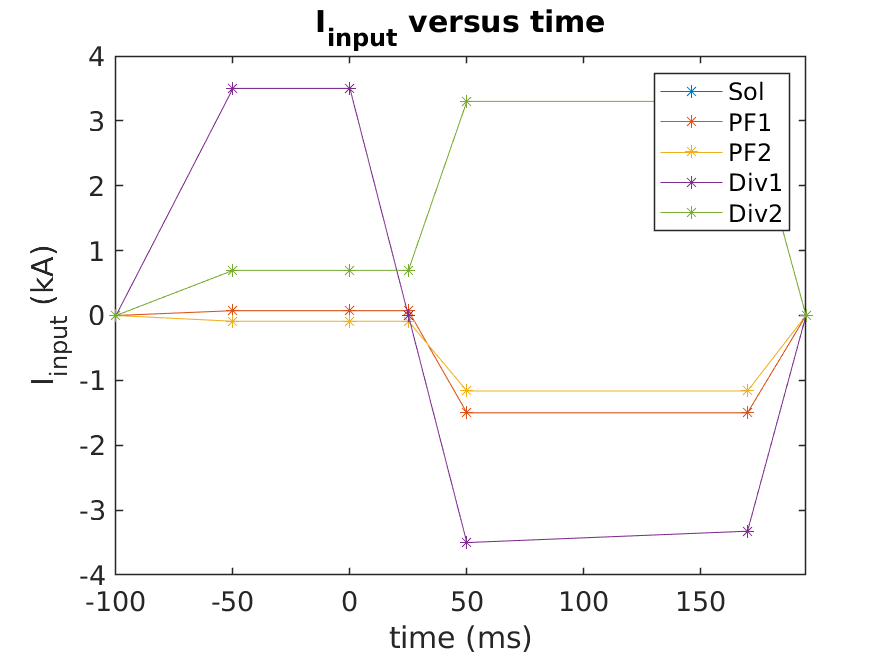
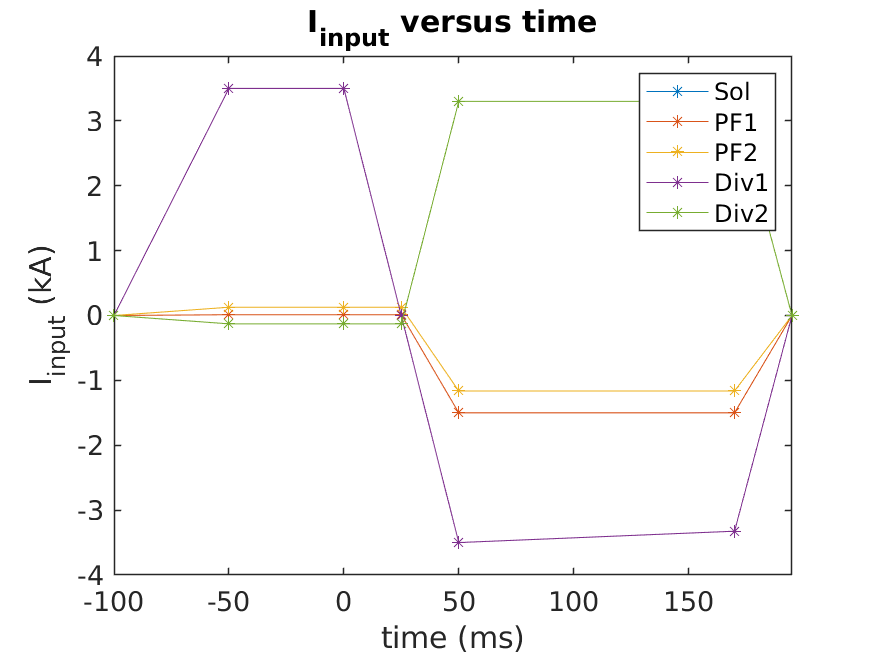
phase2 x00000003
*Corrected the calc of the currents to obtain null. An increase of an order of magnitude in L empirical have been achieved :)
*See the change in the input currents in the breakdown phase with respect to the worng way of computing the null currents

diff --git a/Phase2_Spitzer_H_Lall.m b/Phase2_Spitzer_H_Lall.m
@@ -606,12 +606,30 @@ rzip_config = fiesta_rzip_configuration( 'RZIP', config, vessel, {sensor_btheta}
 
 %%%%%%  Optimised null  currents%%%%%%%%%%%%
 %Extract scaling factors for null-field coil currents - Copied from ST25D Simulation
-C_temp = C(end-get(sensor_btheta,'n')+1:end,1:nPF);
-C1 = C_temp(:,1);
-D1 = C_temp(:,2:end);
-%Compute PF null coil currents (excluding Solenoid) 
-I_PF_null = -pinv(D1) * (C1*ISol_Waveform(2));	%(PF1,PF2,Div1,Div2)
+C_temp = C(end-get(sensor_btheta,'n')+1:end,1:nPF);             %This ic Cn(:,1:nPF) 
+                                                  %Cn is the part of the matrix C related to the sensors
+                                                  %(see response)
+C1 = C_temp(:,iSol);                               %Elements of C_temp(Cn) related to Sol coil
 
+D1_PF1 = C_temp(:,iPF1);                            %Elements of C_temp(Cn) to PF1 coil
+D1_PF2 = C_temp(:,iPF2);                            %Elements of C_temp(Cn) to PF2 coil
+D1_Div1 = C_temp(:,iDiv1);                          %Elements of C_temp(Cn) to Div1 coil
+D1_Div2 = C_temp(:,iDiv2);                          %Elements of C_temp(Cn) to Div2 coil
+
+    %1) Compute all the coil currents (standar)
+        %D1=C_temp(:,iPF1:end);          %Elements of C_temp(Cn) related to the PF and Div coils
+        %I_PF_null = -pinv(D1) * (C1*ISol_Waveform(2));	%(PF1,PF2,Div1,Div2)
+
+    %2)Div1 in serie with Sol! :
+        %Since we want Div1 in serie with Sol, it should be reomved from the matrix
+        %to do the calc:
+        D1=[D1_PF1 D1_PF2 D1_Div2];                     %This is for Div1 in series with Sol, so 
+                                                                    %must not include it in the calculation for the currents                                                                                                                 
+        I_PF_null = -pinv(D1) * (C1*ISol_Waveform(2)+D1_Div1*ISol_Waveform(2));	%Div1 in serie with Sol
+        I_PF_null=[I_PF_null(1); I_PF_null(2); ISol_Waveform(2); I_PF_null(3)]; %To not have problems
+        
+        %redefining the coil currents
+%%%%%%
 %Update CoilWaveforms array with null-field values
 for i = 1:nPF;
 	for j = 1:nTime;
@@ -784,99 +802,96 @@ I_Passive_VV=sum(I_Passive,2);
     icoil_eddy = fiesta_icoil( coilsetVV, coil_currents_eddys );
     
     %%%1) EFIT
-%     [efit_configVV, signalsVV, weightsVV, indexVV]=efit_shape_controller(configVV, {'PF1','PF2'}, [0.44, 0, 0.44/1.85 1.8 0.2])
-%     % The numbers you give are [Rgeo, Zgeo, a, kappa, delta], Rgeo,Zgeo,a are
-%     % mandatory.
-%     %I use the values of the standar shape, to get a similar equil
-% 
-%     equil_eddy=fiesta_equilibrium('Target+eddys', configVV, Irod, jprofile, control,efit_configVV, icoil_eddy, signalsVV, weightsVV) %%EFIT!!!
-%     %It does the case in line 96!! The equil calc is in lin 124
-% 
-%     %Now we have to extract the new currents from the equil, provided that EFIT
-%     %changed some of them to satisfy the conditions requested:
-%     icoil_eddy=get(equil_eddy,'icoil');
-%     current_post_EFIT=get(icoil_eddy,'currents');
-%     coil_currents_VV(iPF1) =current_post_EFIT(iPF1);
-%     coil_currents_VV(iPF2) =current_post_EFIT(iPF2);
-%     coil_currents_VV(iDiv1) =current_post_EFIT(iDiv1);
-%     coil_currents_VV(iDiv2) =current_post_EFIT(iDiv2);
-% %No need of redefine the Sol current of course. Actually, Div 1 and 2 are
-% %not neccessary, since I am not changing them
-% 
-% 
-% %     %%2) NO EFIT
-% %             equil = fiesta_equilibrium( 'STV2C2', config, Irod, jprofile, control, [],icoil );
-% 
-%                 %This is not an option, since it does not
-%                 %convnerge with the values without eddys!!!!!!!!!!
-%                              
-%   %Plot of the equil with the eddys!
-%         %section_figure=section(equil); %THIS IS A PLOT
-%         figure;
-%         plot(equil_eddy)
-%         parametersshow(equil_eddy) %this plots the parameters in the equil
-%         hold on
-%         plot(vessel)
-%         plot(coilset)
-%         title('Target equilibria eddys included')
-% 
-% 
-% %%% Make virtual sensors where we want breakdown  %%%%%%%
-% %This is to null the poloidal field(BP), to increase the connective length, and
-% %allow the plasma breakdown. 
-% 
-% BP_virt_R = linspace(param_equil.r0_geom-a_eff,param_equil.r0_geom+a_eff,10);       %R values, 100 values
-% BP_virt_Z = linspace(ZGeo-a_eff,ZGeo+a_eff,10);                     %Z values, 100 values
-% 
-% [BP_virt_R,BP_virt_Z] = meshgrid(BP_virt_R,BP_virt_Z);
-% BP_virt_R = BP_virt_R(:)';
-% BP_virt_Z = BP_virt_Z(:)';
-% 
-% BP_virt_theta = zeros(1,length(BP_virt_R));
-% nSensors = length(BP_virt_theta); %100
-% 
-% BP_virt_names = {};
-% for iSensor=1:nSensors
-%     BP_virt_names{iSensor} = ['Radial Bp Virtual Sensor #' num2str(iSensor) ];
-% end
-% 
-% BP_virt_R = [BP_virt_R  BP_virt_R];
-% BP_virt_Z = [BP_virt_Z  BP_virt_Z];         %Both size 1*200. It is replicated, so element 101=element 1 
-% 
-% BP_virt_theta = [BP_virt_theta  BP_virt_theta+pi/2];    %size 1*200. The first 100 have 0, and the second has pi/2 
-% 
-% for iSensor=nSensors+1:2*nSensors
-%     BP_virt_names{iSensor} = ['Vertical Bp Virtual Sensor #' num2str(iSensor) ];
-% end
-% 
-% sensor_btheta = fiesta_sensor_btheta( 'sensor', BP_virt_R, BP_virt_Z,BP_virt_theta, BP_virt_names );
-% 
-% %(r,z) of the sensors
-% r_sensors=get(sensor_btheta,'r'); %size 1*200
-% z_sensors=get(sensor_btheta,'z'); %size 1*200
-% [R_sensors,Z_sensors]=meshgrid(r_sensors,z_sensors); %size 200*200
-% 
-% %Plot of the sensors
-%     figure; hold on; axis equal;
-%     plot(coilset);
-%     contour( get(equil_eddy,'Psi'),60,'Color','Black', 'LineWidth',0.5 );
-%     contour( get(equil_eddy,'Psi'),get(equil_eddy,'Psi_boundary')*[1 1],'Color','Black', 'LineWidth',1.5 );
-%     plot(vessel);
-%     fileName = 'ST_target_equilibrium';
-%     legend(gca,'hide');
-%     plot(sensor_btheta);
-%     %set(gca,'XLim',[0 1]);
-%     %set(gca,'YLim',[-1.5 1.5]);
-%     xlabel(gca,'R (m)');
-%     ylabel(gca,'Z (m)');
-%     title('Sensors to null Bpol with eddys');
-%     % save_to_pdf( gcf, fileName );
-%     %%%OPtionf for tfg
-%     set(gca, 'FontSize', 13, 'LineWidth', 0.75); %<- Set properties TFG
-%     axis([0,1.1,-1.1,1.1]) 
+    [efit_configVV, signalsVV, weightsVV, indexVV]=efit_shape_controller(configVV, {'PF1','PF2'}, [0.44, 0, 0.44/1.85 1.8 0.2])
+    % The numbers you give are [Rgeo, Zgeo, a, kappa, delta], Rgeo,Zgeo,a are
+    % mandatory.
+    %I use the values of the standar shape, to get a similar equil
+
+    equil_eddy=fiesta_equilibrium('Target+eddys', configVV, Irod, jprofile, control,efit_configVV, icoil_eddy, signalsVV, weightsVV) %%EFIT!!!
+    %It does the case in line 96!! The equil calc is in lin 124
+
+    %Now we have to extract the new currents from the equil, provided that EFIT
+    %changed some of them to satisfy the conditions requested:
+    icoil_eddy=get(equil_eddy,'icoil');
+    current_post_EFIT=get(icoil_eddy,'currents');
+    coil_currents_eddys(iPF1) =current_post_EFIT(iPF1);
+    coil_currents_eddys(iPF2) =current_post_EFIT(iPF2);
+    coil_currents_eddys(iDiv1) =current_post_EFIT(iDiv1);
+    coil_currents_eddys(iDiv2) =current_post_EFIT(iDiv2);
+%No need of redefine the Sol current of course. Actually, Div 1 and 2 are
+%not neccessary, since I am not changing them
 
 
-%%%HAVE TO CHANGE DIV2, THERE IS NO EQUIL, EVEN WITH EFIT!!
+%     %%2) NO EFIT
+%             equil = fiesta_equilibrium( 'STV2C2', config, Irod, jprofile, control, [],icoil );
+
+                %This is not an option, since it does not
+                %convnerge with the values without eddys!!!!!!!!!!
+                             
+  %Plot of the equil with the eddys!
+        %section_figure=section(equil); %THIS IS A PLOT
+        figure;
+        plot(equil_eddy)
+        parametersshow(equil_eddy) %this plots the parameters in the equil
+        hold on
+        plot(vessel)
+        plot(coilset)
+        title('Target equilibria eddys included')
+
+
+%%% Make virtual sensors where we want breakdown  %%%%%%%
+%This is to null the poloidal field(BP), to increase the connective length, and
+%allow the plasma breakdown. 
+
+BP_virt_R = linspace(param_equil.r0_geom-a_eff,param_equil.r0_geom+a_eff,10);       %R values, 100 values
+BP_virt_Z = linspace(ZGeo-a_eff,ZGeo+a_eff,10);                     %Z values, 100 values
+
+[BP_virt_R,BP_virt_Z] = meshgrid(BP_virt_R,BP_virt_Z);
+BP_virt_R = BP_virt_R(:)';
+BP_virt_Z = BP_virt_Z(:)';
+
+BP_virt_theta = zeros(1,length(BP_virt_R));
+nSensors = length(BP_virt_theta); %100
+
+BP_virt_names = {};
+for iSensor=1:nSensors
+    BP_virt_names{iSensor} = ['Radial Bp Virtual Sensor #' num2str(iSensor) ];
+end
+
+BP_virt_R = [BP_virt_R  BP_virt_R];
+BP_virt_Z = [BP_virt_Z  BP_virt_Z];         %Both size 1*200. It is replicated, so element 101=element 1 
+
+BP_virt_theta = [BP_virt_theta  BP_virt_theta+pi/2];    %size 1*200. The first 100 have 0, and the second has pi/2 
+
+for iSensor=nSensors+1:2*nSensors
+    BP_virt_names{iSensor} = ['Vertical Bp Virtual Sensor #' num2str(iSensor) ];
+end
+
+sensor_btheta = fiesta_sensor_btheta( 'sensor', BP_virt_R, BP_virt_Z,BP_virt_theta, BP_virt_names );
+
+%(r,z) of the sensors
+r_sensors=get(sensor_btheta,'r'); %size 1*200
+z_sensors=get(sensor_btheta,'z'); %size 1*200
+[R_sensors,Z_sensors]=meshgrid(r_sensors,z_sensors); %size 200*200
+
+%Plot of the sensors
+    figure; hold on; axis equal;
+    plot(coilset);
+    contour( get(equil_eddy,'Psi'),60,'Color','Black', 'LineWidth',0.5 );
+    contour( get(equil_eddy,'Psi'),get(equil_eddy,'Psi_boundary')*[1 1],'Color','Black', 'LineWidth',1.5 );
+    plot(vessel);
+    fileName = 'ST_target_equilibrium';
+    legend(gca,'hide');
+    plot(sensor_btheta);
+    %set(gca,'XLim',[0 1]);
+    %set(gca,'YLim',[-1.5 1.5]);
+    xlabel(gca,'R (m)');
+    ylabel(gca,'Z (m)');
+    title('Sensors to null Bpol with eddys');
+    % save_to_pdf( gcf, fileName );
+    %%%OPtionf for tfg
+    set(gca, 'FontSize', 13, 'LineWidth', 0.75); %<- Set properties TFG
+    axis([0,1.1,-1.1,1.1]) 
 
 %%%%END OF FIESTA EQ WITH EDDYS@@@@@@@@@@@@@@@@@@@@@@@@@@
 
@@ -887,9 +902,16 @@ I_Passive_VV=sum(I_Passive,2);
 % @@@@@@@@@@@@@@@@@@@@@@@@@@@@@@@@@@@@@
 % It has the virtual sensors
 
-% rzip_config = fiesta_rzip_configuration( 'RZIP with eddys', config, vessel, {sensor_btheta} );
+%Redefinition of the icoil in the equil with eddys to not have the vessel
+
+% equil_eddy=set(equil_eddy,configVV,'icoil',fiesta_icoil( coilset, coil_currents_eddys(iSol:iDiv2)));
+% 
+% %%%%DO NOT WORK :)
+% 
+% %%%%
+% rzip_configVV = fiesta_rzip_configuration( 'RZIP with eddys', configVV, vessel, {sensor_btheta} );
 %     %have to use the confing without the vessel, which makes sense
-% [A, B, C, D, curlyM, curlyR, gamma, plasma_parameters, index, label_index, state] = response(rzip_config, equil, 'rp',plasma_resistance);
+% [A, B, C, D, curlyM, curlyR, gamma, plasma_parameters, index, label_index, state] = response(rzip_configVV, equil_eddy, 'rp',plasma_resistance);
 % %%%%%%%%%%%%%%%%%%%%%%%%%%%%%%%%%%%%%%%%%%%%%%%%%%%%%%%%%%%%%%%%%%%%%%%%%%%
 % 
 % %%%%%%  Optimised null  %%%%%%%%%%%%
@@ -899,7 +921,7 @@ I_Passive_VV=sum(I_Passive,2);
 % D1 = C_temp(:,2:end);
 
 %%%%%THIS DO NOT WORK, SINCE THE COILSET ALSO CONTAINS THE VESSEL, SO
-%%%%%RESPONDE DO NOT WORK PROPERLY!!!!!!!!!!!!!!!!!!!!!!ç
+%%%%%RESPONDE DO NOT WORK PROPERLY (eig(A) contains NaN or Inf!!!!!!!!!!!!!!!!!!!!!!ç
 
 
 %%
@@ -1324,7 +1346,7 @@ Bpol_sensor=sqrt(Br_sensor.^2+Bz_sensor.^2);
      [min(z_sensors) max(z_sensors) max(z_sensors) min(z_sensors) min(z_sensors)],'r.--')
      xlabel('R (m)')
     ylabel('Z (m)')
-    title('log_{10}(Bpol) mikama')
+    title('log_{10}(Bpol) phase2')
     subplot(1,2,2)
     surf(R_in,Z_in,Bphi_ins_vessel,'EdgeColor','none');
     shading('interp') %this is to make the transition between values continuous,
@@ -1337,7 +1359,7 @@ Bpol_sensor=sqrt(Br_sensor.^2+Bz_sensor.^2);
      [min(z_sensors) max(z_sensors) max(z_sensors) min(z_sensors) min(z_sensors)],'r.--')
     xlabel('R (m)')
     ylabel('Z (m)')
-    title('Bphi mikama')
+    title('Bphi')
 
 %% %%L CALC FORMULAE%%%%%%%%%%%%
 
